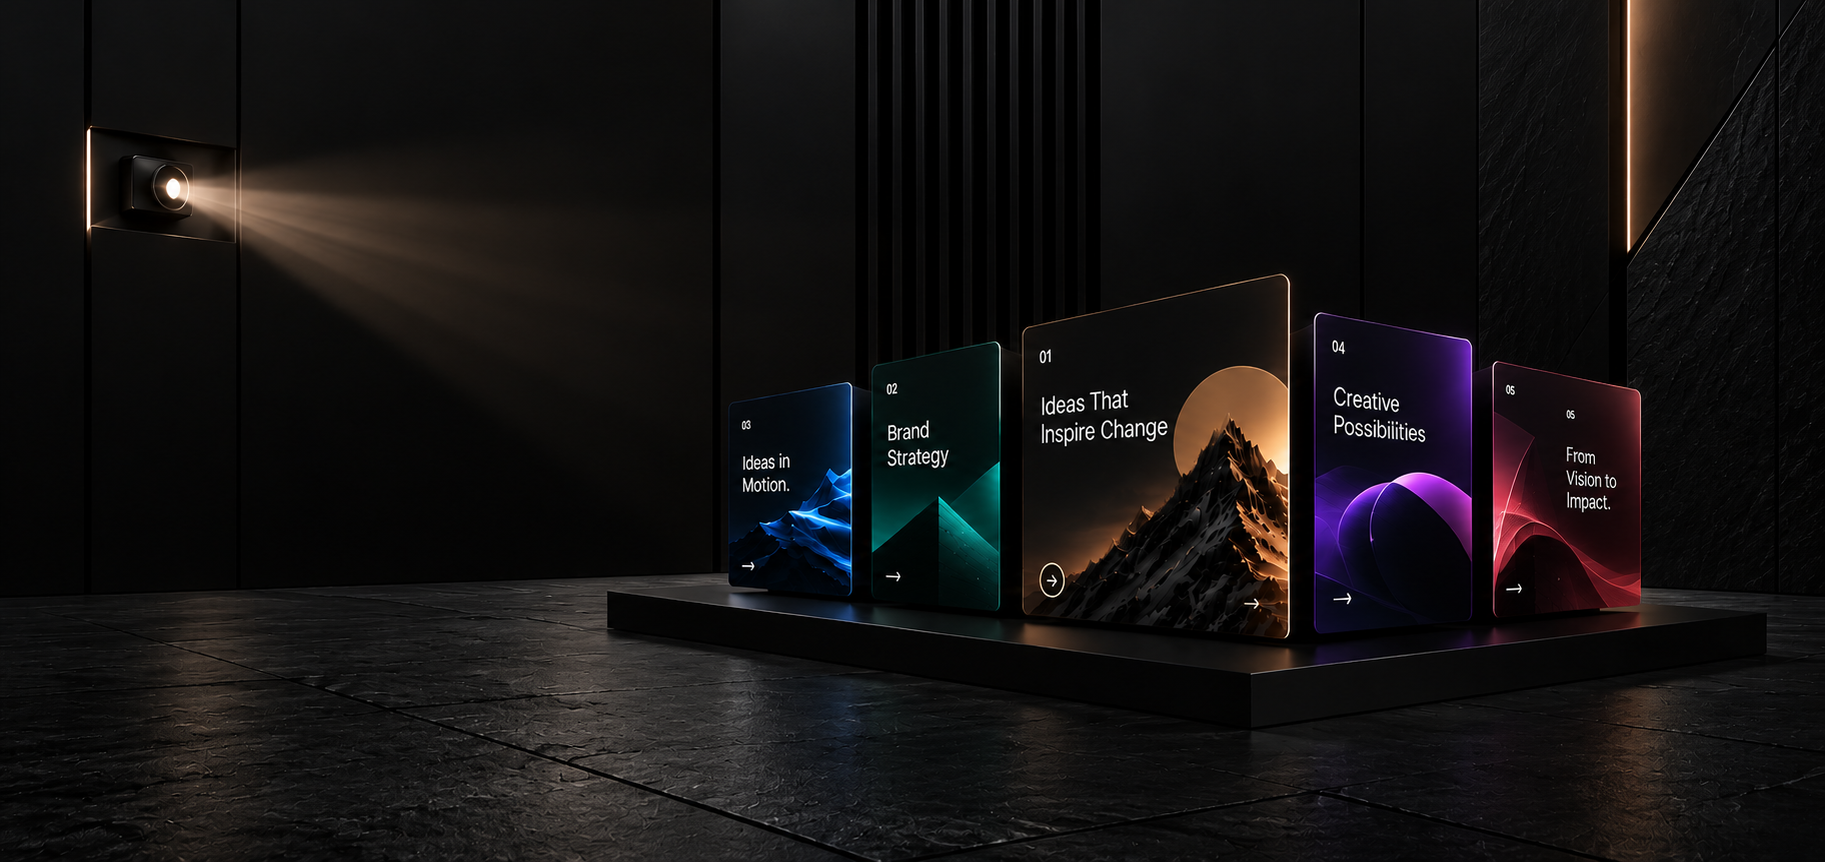
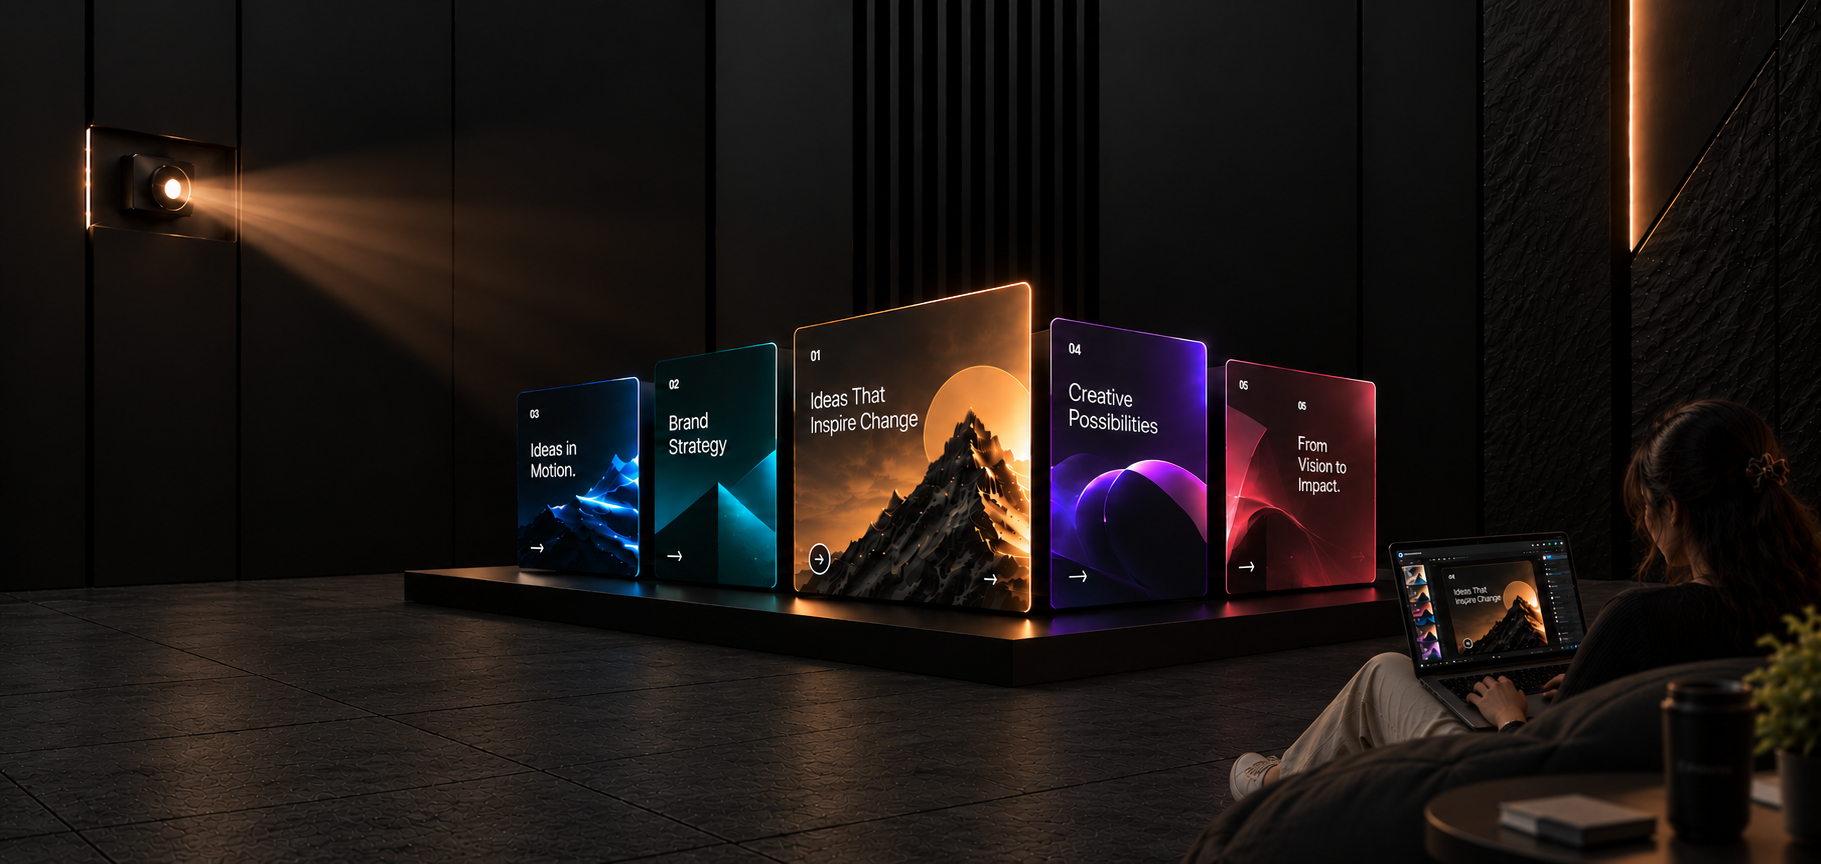
Switch the login backdrop to the new gallery image and add a Presenta tab
The login backdrop is the new "Immersive Ideas in Motion" image. The
floor carousel is re-fitted to its platform, starting on card 01 at
the centre, with the side cards narrowed and spread to match.

The API key dialog gets a Presenta tab before OpenAI. It hides the key
field and offers "Use Presenta Studio", which clears any stored key.

diff --git a/src/components/shell/ApiKeyDialog.tsx b/src/components/shell/ApiKeyDialog.tsx
@@ -8,6 +8,8 @@ import type { AiProvider } from "@/lib/ai/auth";
 import { useAiHealth } from "@/hooks/useAiHealth";
 import { useApiKeyDialog } from "./api-key-dialog-store";
 
+type Tab = "presenta" | AiProvider;
+
 const PROVIDERS: { id: AiProvider; label: string; hint: string; docs: string }[] = [
   { id: "openai", label: "OpenAI", hint: "sk-…", docs: "https://platform.openai.com/api-keys" },
   { id: "anthropic", label: "Anthropic", hint: "sk-ant-…", docs: "https://console.anthropic.com/settings/keys" },
@@ -33,16 +35,21 @@ export function ApiKeyDialog() {
 function KeyForm({ onClose }: { onClose: () => void }) {
   const health = useAiHealth();
   const [initial] = useState(getStoredKey);
-  const [provider, setProvider] = useState<AiProvider>(initial?.provider ?? "openai");
+  const [provider, setProvider] = useState<Tab>(initial?.provider ?? "presenta");
   const [value, setValue] = useState("");
   const [remember, setRemember] = useState(initial?.remember ?? true);
   const [show, setShow] = useState(false);
   const [error, setError] = useState<string | null>(null);
   const [saved, setSaved] = useState<{ provider: AiProvider; apiKey: string } | null>(initial);
 
-  const meta = PROVIDERS.find((p) => p.id === provider) ?? PROVIDERS[0];
+  const meta = PROVIDERS.find((p) => p.id === provider);
+  const usePresenta = () => {
+    clearStoredKey();
+    onClose();
+  };
 
   const save = () => {
+    if (provider === "presenta") return;
     try {
       setStoredKey({ provider, apiKey: value, remember });
       onClose();
@@ -93,6 +100,9 @@ function KeyForm({ onClose }: { onClose: () => void }) {
         ) : null}
 
         <div className="ps-keydialog-seg" role="radiogroup" aria-label="Provider">
+          <button type="button" role="radio" aria-checked={provider === "presenta"} data-active={provider === "presenta" ? "true" : undefined} onClick={() => setProvider("presenta")}>
+            Presenta
+          </button>
           {PROVIDERS.map((p) => (
             <button key={p.id} type="button" role="radio" aria-checked={provider === p.id} data-active={provider === p.id ? "true" : undefined} onClick={() => setProvider(p.id)}>
               {p.label}
@@ -100,48 +110,52 @@ function KeyForm({ onClose }: { onClose: () => void }) {
           ))}
         </div>
 
-        <label className="ps-keydialog-field">
-          <span>{meta.label} API key</span>
-          <span className="ps-keydialog-input">
-            <input
-              type={show ? "text" : "password"}
-              value={value}
-              onChange={(e) => {
-                setValue(e.target.value);
-                setError(null);
-              }}
-              placeholder={saved ? "Paste a new key to replace it" : meta.hint}
-              autoComplete="off"
-              spellCheck={false}
-              autoCapitalize="off"
-              aria-invalid={error ? true : undefined}
-              onKeyDown={(e) => e.key === "Enter" && value.trim() && save()}
-            />
-            <button type="button" className="ps-iconbtn" aria-label={show ? "Hide key" : "Show key"} onClick={() => setShow((v) => !v)}>
-              {show ? <EyeSlash size={16} /> : <Eye size={16} />}
-            </button>
-          </span>
-        </label>
-        {error ? (
-          <p className="ps-keydialog-error" role="alert">
-            {error}
-          </p>
+        {provider !== "presenta" && meta ? (
+          <>
+            <label className="ps-keydialog-field">
+              <span>{meta.label} API key</span>
+              <span className="ps-keydialog-input">
+                <input
+                  type={show ? "text" : "password"}
+                  value={value}
+                  onChange={(e) => {
+                    setValue(e.target.value);
+                    setError(null);
+                  }}
+                  placeholder={saved ? "Paste a new key to replace it" : meta.hint}
+                  autoComplete="off"
+                  spellCheck={false}
+                  autoCapitalize="off"
+                  aria-invalid={error ? true : undefined}
+                  onKeyDown={(e) => e.key === "Enter" && value.trim() && save()}
+                />
+                <button type="button" className="ps-iconbtn" aria-label={show ? "Hide key" : "Show key"} onClick={() => setShow((v) => !v)}>
+                  {show ? <EyeSlash size={16} /> : <Eye size={16} />}
+                </button>
+              </span>
+            </label>
+            {error ? (
+              <p className="ps-keydialog-error" role="alert">
+                {error}
+              </p>
+            ) : null}
+
+            <label className="ps-keydialog-check">
+              <input type="checkbox" checked={remember} onChange={(e) => setRemember(e.target.checked)} />
+              Remember on this device
+            </label>
+
+            <p className="ps-keydialog-note">
+              <LockKey size={14} aria-hidden />
+              <span>
+                Your key stays in this browser and is sent only with your own requests, over HTTPS. We never store or log it.{" "}
+                <a href={meta.docs} target="_blank" rel="noreferrer noopener">
+                  Get a {meta.label} key
+                </a>
+              </span>
+            </p>
+          </>
         ) : null}
-
-        <label className="ps-keydialog-check">
-          <input type="checkbox" checked={remember} onChange={(e) => setRemember(e.target.checked)} />
-          Remember on this device
-        </label>
-
-        <p className="ps-keydialog-note">
-          <LockKey size={14} aria-hidden />
-          <span>
-            Your key stays in this browser and is sent only with your own requests, over HTTPS. We never store or log it.{" "}
-            <a href={meta.docs} target="_blank" rel="noreferrer noopener">
-              Get a {meta.label} key
-            </a>
-          </span>
-        </p>
 
         <DialogFooter>
           {saved ? (
@@ -152,9 +166,15 @@ function KeyForm({ onClose }: { onClose: () => void }) {
           <button type="button" className="ps-btn" onClick={onClose}>
             Cancel
           </button>
-          <button type="button" className="ps-btn ps-btn-primary" onClick={save} disabled={!value.trim()}>
-            Save key
-          </button>
+          {provider === "presenta" ? (
+            <button type="button" className="ps-btn ps-btn-primary" onClick={usePresenta}>
+              Use Presenta Studio
+            </button>
+          ) : (
+            <button type="button" className="ps-btn ps-btn-primary" onClick={save} disabled={!value.trim()}>
+              Save key
+            </button>
+          )}
         </DialogFooter>
     </>
   );

diff --git a/src/components/auth/FloorCarousel.tsx b/src/components/auth/FloorCarousel.tsx
@@ -12,9 +12,16 @@ const SLIDES = [
 
 const INTERVAL_MS = 4500;
 
+/** Horizontal offset of a card from centre, in stage widths; the cards further out sit closer together. */
+function offset(d: number): number {
+  const dist = Math.abs(d);
+  const step = dist === 0 ? 0 : dist === 1 ? 10.5 : 19;
+  return Math.sign(d) * step;
+}
+
 /** Coverflow of cards standing on the floor of the backdrop. It advances on its own, pauses on hover or focus, and can be steered. */
 export function FloorCarousel() {
-  const [index, setIndex] = useState(0);
+  const [index, setIndex] = useState(2);
   const [paused, setPaused] = useState(false);
   const total = SLIDES.length;
 
@@ -41,7 +48,7 @@ export function FloorCarousel() {
               aria-hidden={d !== 0}
               style={{
                 background: s.tone,
-                transform: `translate(-50%, -50%) translateX(${d * 10}cqw) scale(${dist === 0 ? 1 : dist === 1 ? 0.86 : 0.74})`,
+                transform: `translate(-50%, -50%) translateX(${offset(d)}cqw) scale(${dist === 0 ? 1 : dist === 1 ? 0.82 : 0.66})`,
                 opacity: dist > 2 ? 0 : 1,
                 filter: `brightness(${dist === 0 ? 1 : dist === 1 ? 0.72 : 0.45})`,
                 zIndex: 10 - dist,

diff --git a/src/components/styles/auth.css b/src/components/styles/auth.css
@@ -350,7 +350,7 @@
   left: 50%;
   z-index: -2;
   width: max(100cqw, 211.7cqh);
-  aspect-ratio: 1825 / 862;
+  aspect-ratio: 1821 / 864;
   transform: translate(-50%, -50%);
   container-type: size;
 }
@@ -379,14 +379,14 @@
 
 /* The floor: cards on a coverflow, centred on the platform (about 64% across, 53% down the stage). */
 .ps-floor { position: absolute; inset: 0; }
-.ps-floor-track { position: absolute; left: 64%; top: 53%; width: 0; height: 0; }
+.ps-floor-track { position: absolute; left: 50%; top: 52%; width: 0; height: 0; }
 .ps-floor-card {
   position: absolute;
   left: 0;
   top: 0;
   display: flex;
-  height: 42cqh;
-  width: 31.5cqh;
+  height: 38cqh;
+  width: 27.4cqh;
   flex-direction: column;
   justify-content: space-between;
   padding: 3.5cqh 3cqh;
@@ -403,7 +403,7 @@
 .ps-floor-controls {
   position: absolute;
   left: 50%;
-  top: 81%;
+  top: 80%;
   display: flex;
   align-items: center;
   gap: 10px;
